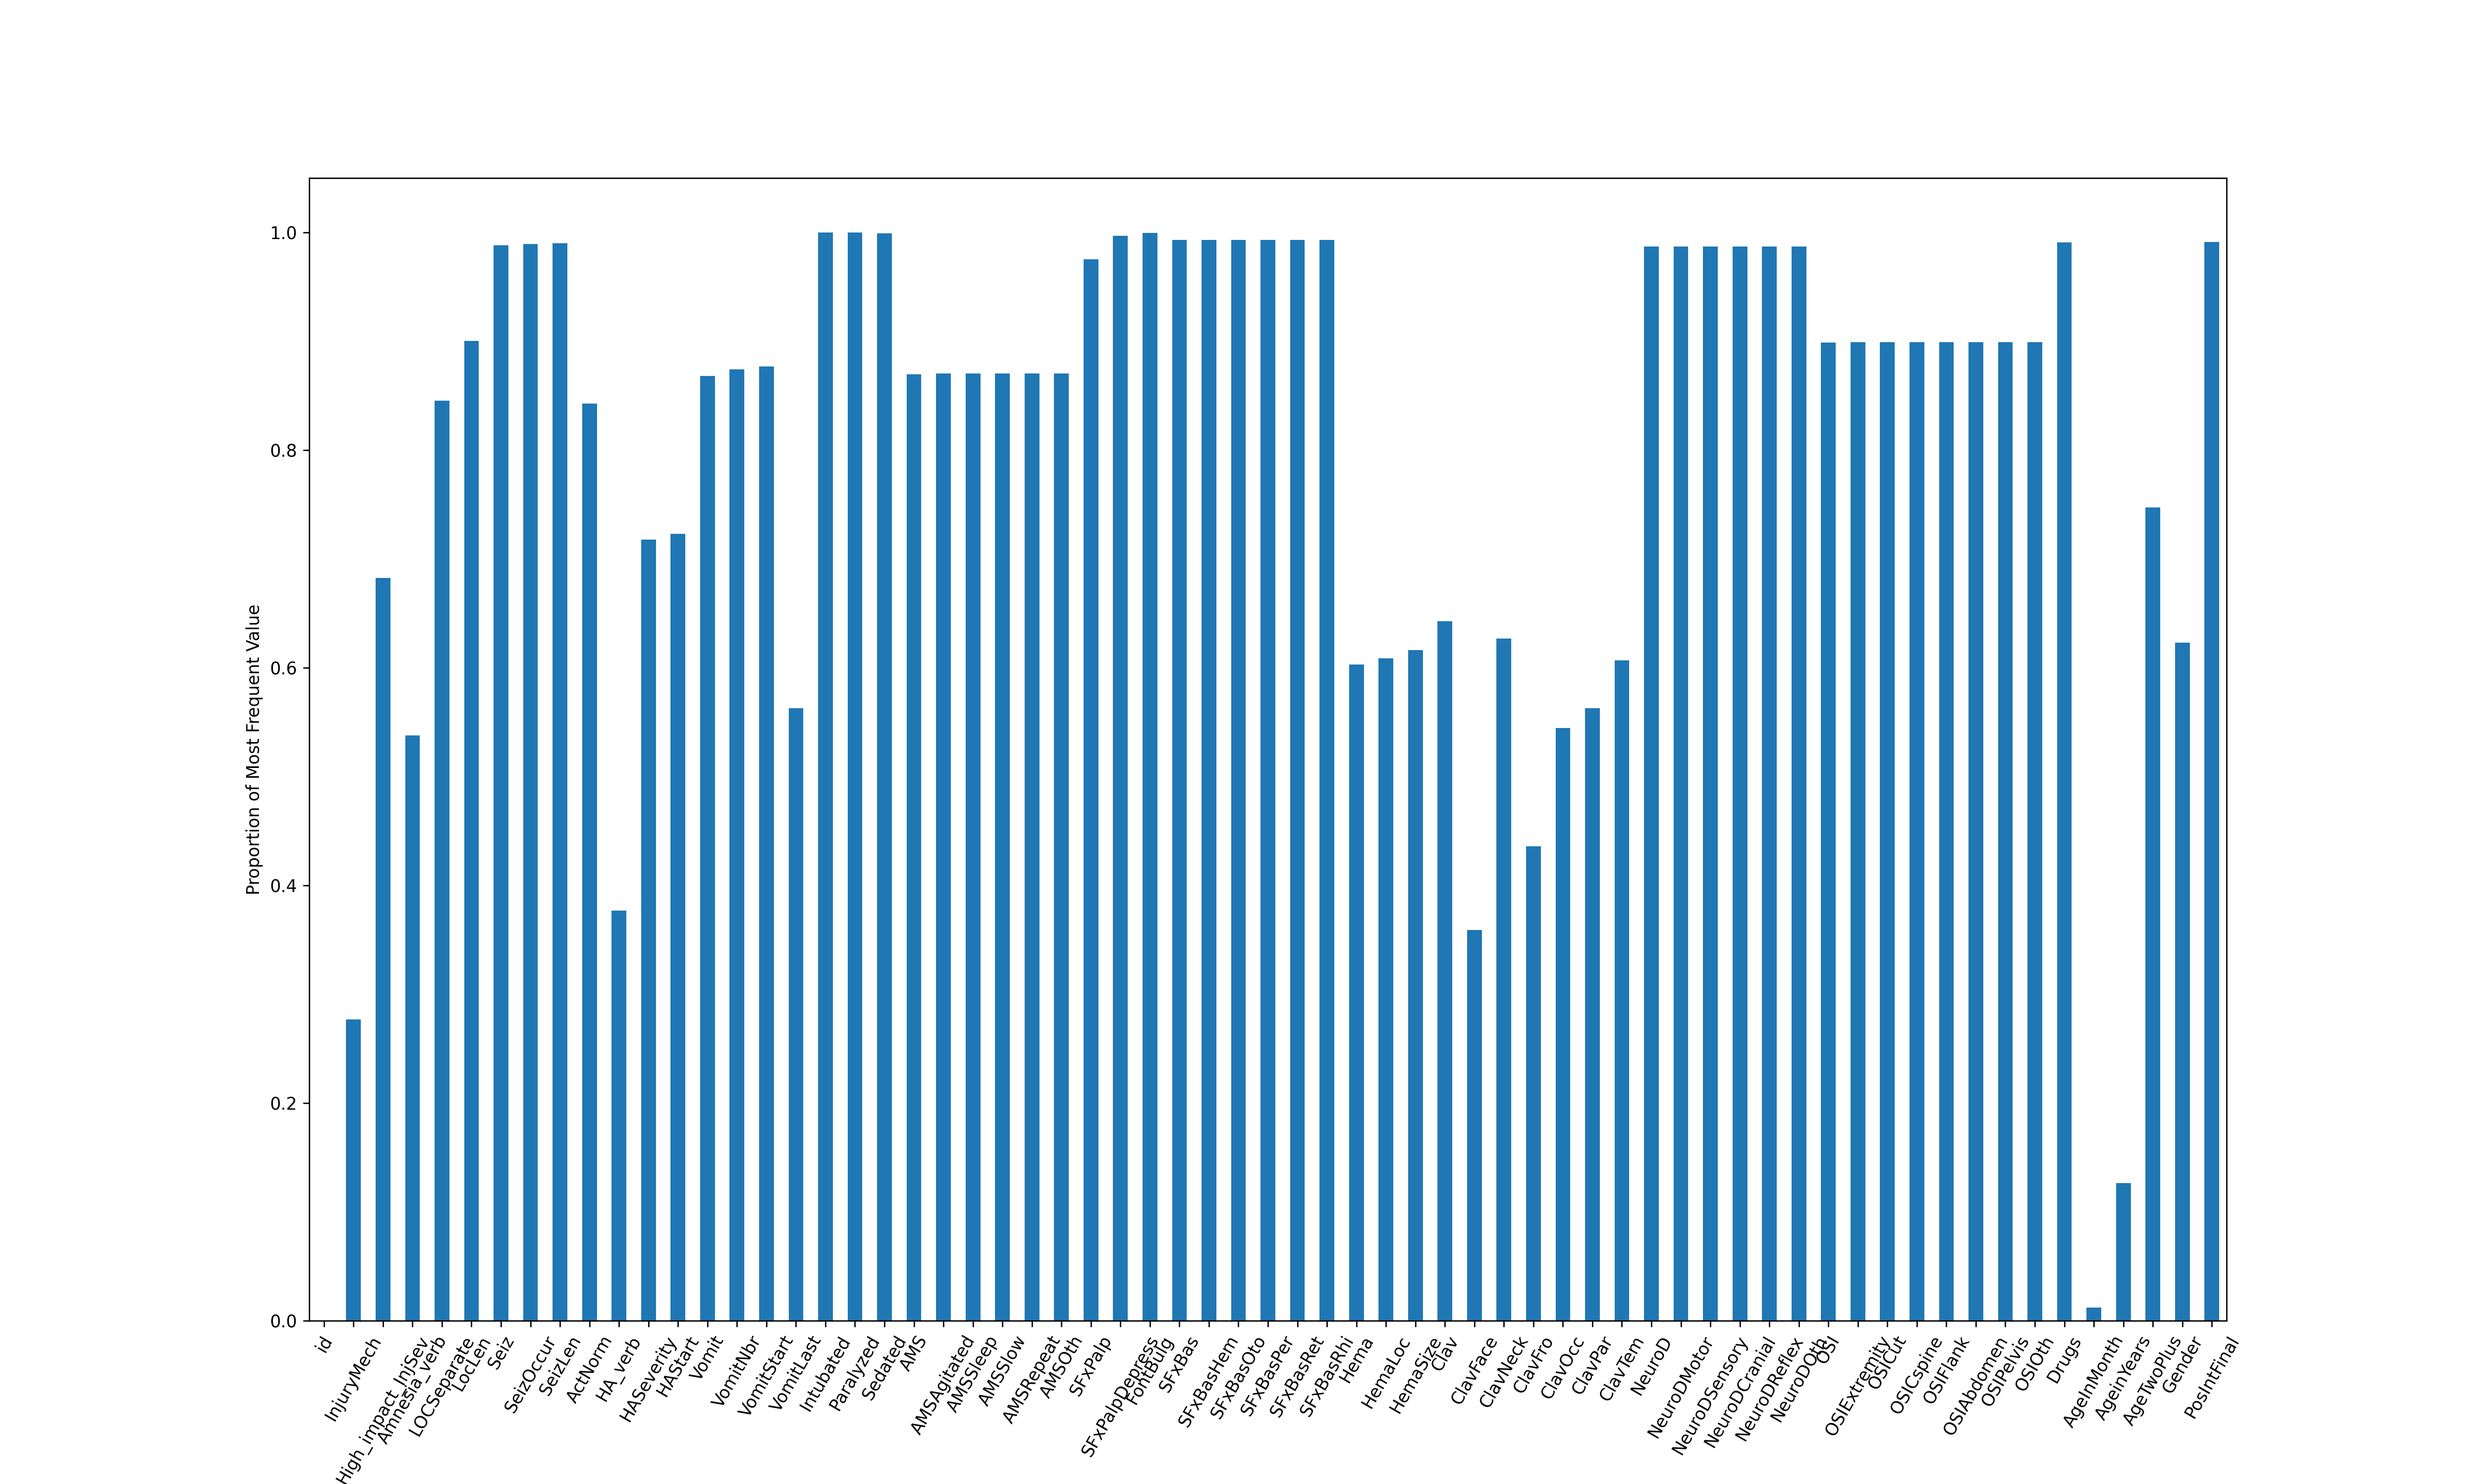
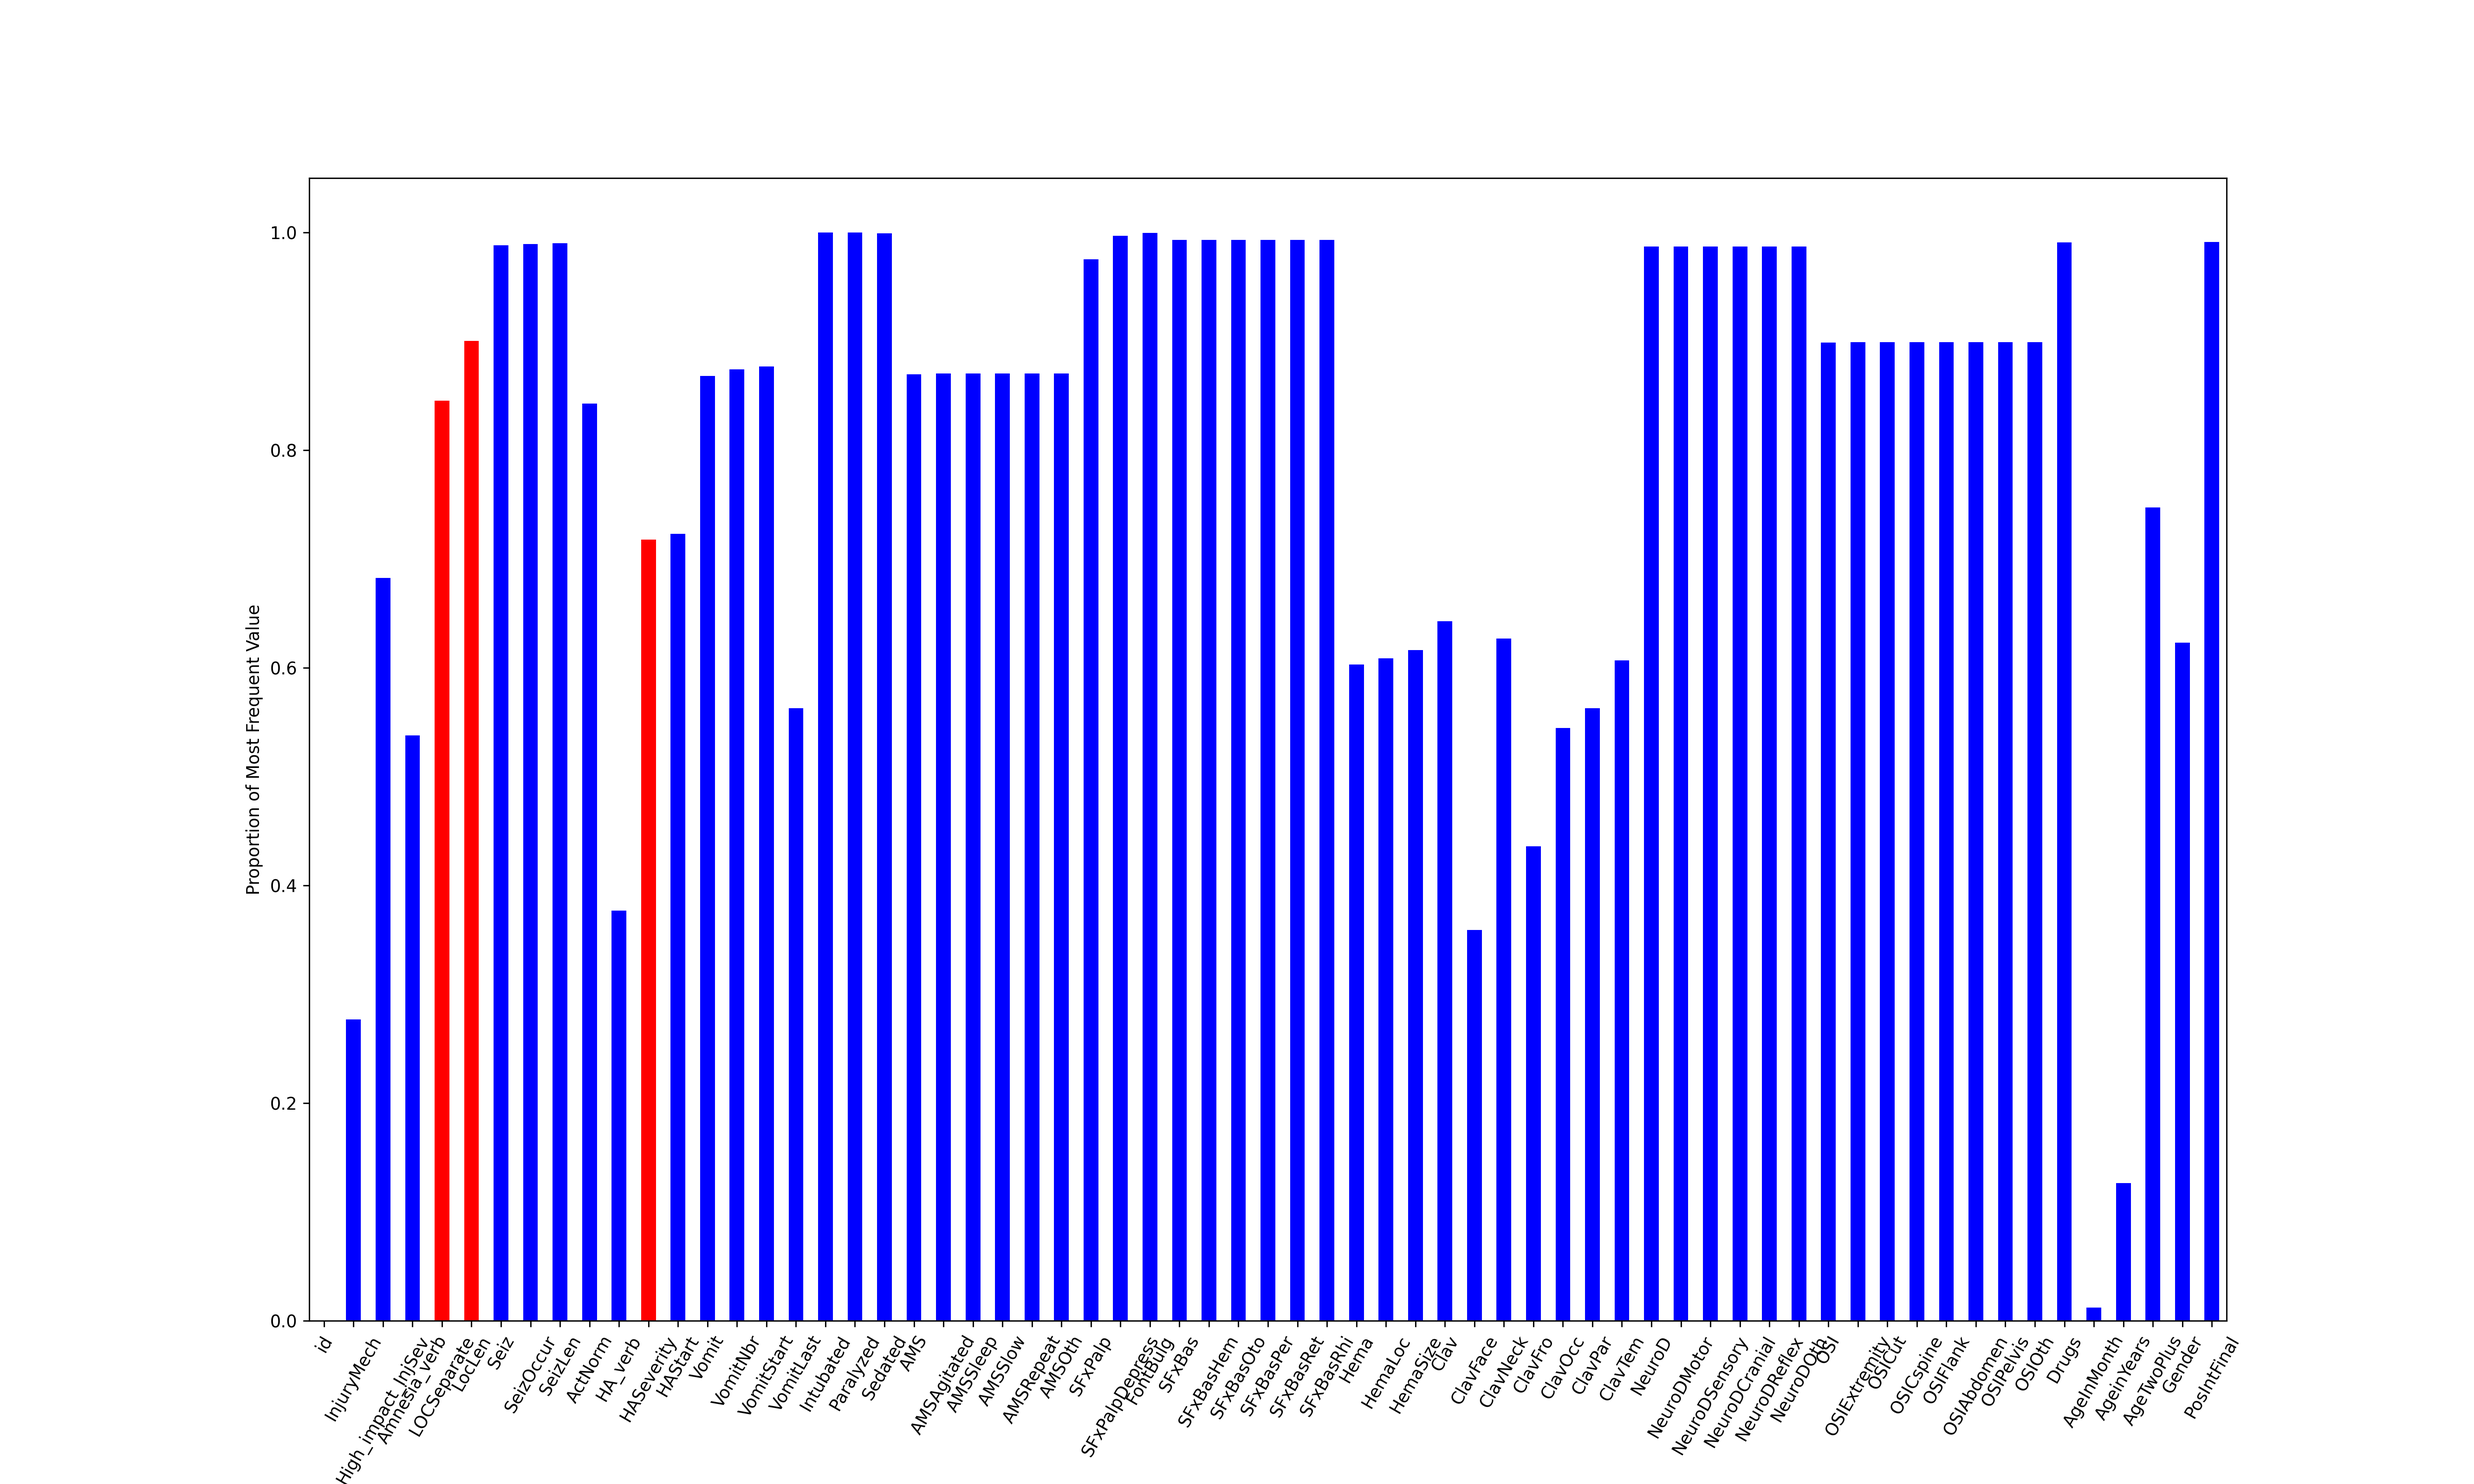
figs

Changed region(s): [[0.1247, 0.1556, 0.9038, 0.9022]]

diff --git a/rulevetting/projects/tbi_pecarn/dataset.py b/rulevetting/projects/tbi_pecarn/dataset.py
@@ -142,9 +142,18 @@ class Dataset:
             gcs_vars = ['GCSEye', 'GCSMotor', 'GCSVerbal']
             cleaned_data = cleaned_data.drop(columns=gcs_vars)
 
+        # color_dict = {"red": [c for c in list(cleaned_data.columns) if c not in ["HASeverity", "LocLen", "LOCSeparate"]]}
+        # color_dict['blue'] =
+        # for c in ["HASeverity", "LocLen", "LOCSeparate"]:
+        #     color_dict[c] = "blue"
+
+
         na_sum = cleaned_data.isna().sum()
         na_sum = na_sum[na_sum > 100]
-        na_sum.reset_index(name="n").plot.bar(x='index', y='n', rot=60, fontsize=10, legend=None, figsize=(12, 12))
+        na_sum.reset_index(name="n")
+        clrs = ["red" if c in ["HASeverity", "LocLen", "LOCSeparate"] else "blue" for c in na_sum.index]
+        na_sum.plot.bar(x='index', y='n', rot=60, fontsize=10,
+                                              legend=None, figsize=(12, 12), color=clrs)
         plt.ylabel("Number of Missing Values")
         plt.savefig("/accounts/campus/omer_ronen/projects/rule-vetting/results/na.png", dpi=300)
         plt.close()
@@ -172,7 +181,11 @@ class Dataset:
 
 
         most_freq = cleaned_data.apply(lambda x: x.value_counts().max() / (cleaned_data.shape[0] - x.isna().sum()))
-        most_freq.reset_index(name="n").plot.bar(x='index', y='n', rot=60, fontsize=10, legend=None, figsize=(20, 12))
+        most_freq.reset_index(name="n")
+        clrs = ["red" if c in ["HASeverity", "LocLen", "LOCSeparate"] else "blue" for c in most_freq.index]
+
+        most_freq.plot.bar(x='index', y='n', rot=60, fontsize=10,
+                                                 legend=None, figsize=(20, 12), color=clrs)
         plt.ylabel("Proportion of Most Frequent Value")
         plt.savefig("/accounts/campus/omer_ronen/projects/rule-vetting/results/most_freq.png", dpi=300)
         plt.close()
